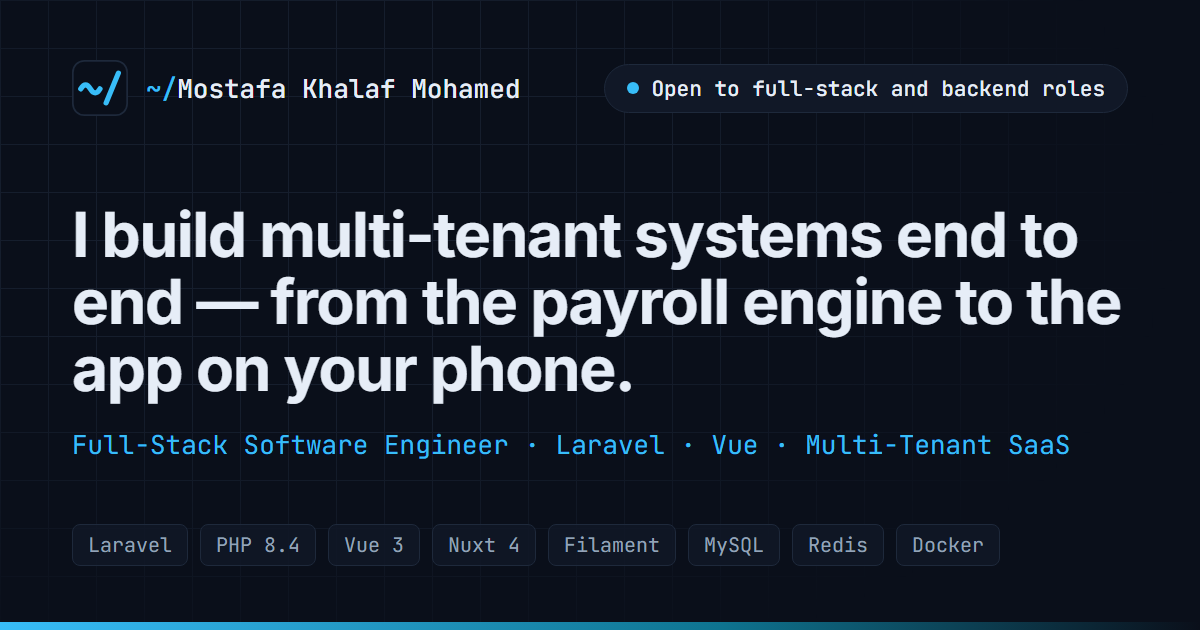
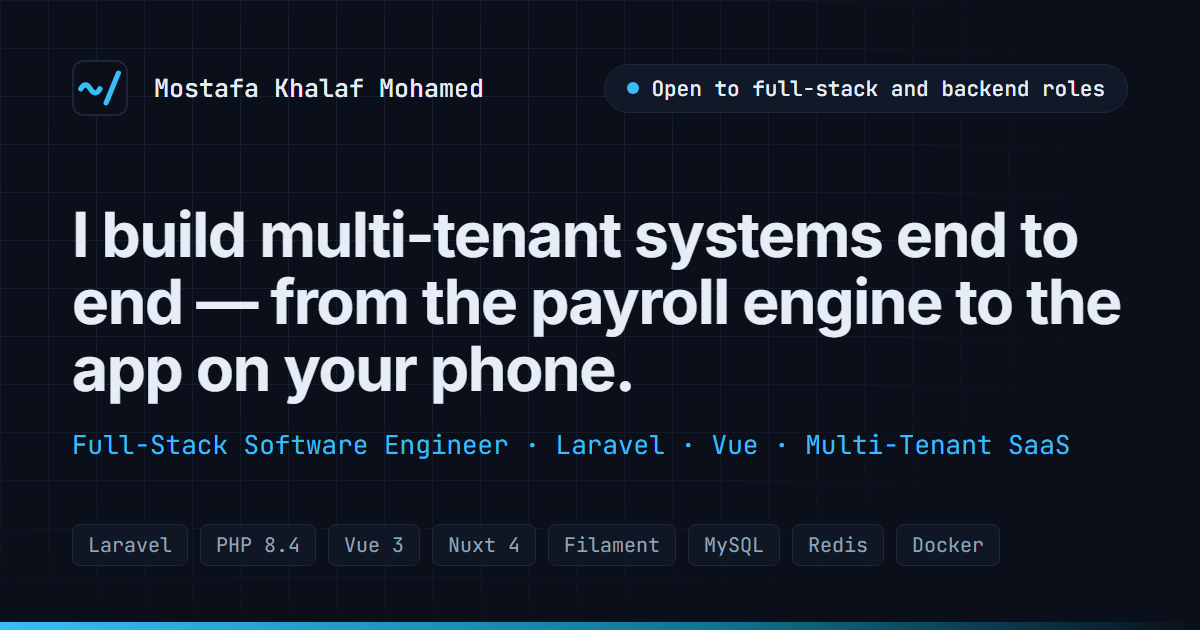
feat(brand): one ~/ mark in the header and preview cards
- Header shows the favicon mark beside the name, like the preview cards,
  instead of a typed ~/ prefix
- Cards drop the duplicated ~/ text, widen the gap after the mark and
  never wrap the top line (the AMG card wrapped beside its wider badge)
- Preview image URLs carry a content hash, so platforms that cache
  previews by URL fetch a re-rendered card instead of the stale one

Changed region(s): [[0.1233, 0.1206, 0.4317, 0.181]]

diff --git a/resources/og/card.html b/resources/og/card.html
@@ -4,7 +4,7 @@
     Text comes from the query string, so one template draws every card:
       title  big line          sub    line under it       tags  comma-separated chips
       badge  pill text         tone   available | live | staging
-      kicker text after the ~/name prompt (optional)
+      kicker text after the name (optional)
     Render with headless Edge or Chrome — see "Link previews" in README.md.
 -->
 <html lang="en">
@@ -42,9 +42,10 @@
         .card { position: relative; height: 100%; padding: 60px 72px 64px; display: flex; flex-direction: column; }
 
         .top { display: flex; align-items: center; justify-content: space-between; gap: 24px; }
-        .who { display: flex; align-items: center; gap: 18px; font-family: 'JetBrains Mono', monospace; font-size: 26px; font-weight: 500; }
-        .who .tilde { color: var(--signal); }
+        /* nowrap: a wide badge ("Live in production") must never push the kicker onto a second line. */
+        .who { display: flex; align-items: center; gap: 26px; font-family: 'JetBrains Mono', monospace; font-size: 25px; font-weight: 500; white-space: nowrap; min-width: 0; }
         .who .kicker { color: var(--muted); font-weight: 400; }
+        .badge { flex-shrink: 0; }
 
         .badge { display: inline-flex; align-items: center; gap: 12px; border-radius: 999px; padding: 10px 22px; font-family: 'JetBrains Mono', monospace; font-size: 21px; font-weight: 500; white-space: nowrap; }
         .badge::before { content: ''; width: 12px; height: 12px; border-radius: 50%; background: currentColor; }
@@ -77,7 +78,8 @@
                         <path d="M19.5 24.5 26.5 7.5"/>
                     </g>
                 </svg>
-                <span><span class="tilde">~/</span>Mostafa Khalaf Mohamed<span class="kicker" id="kicker"></span></span>
+                <!-- The mark already reads "~/", so the name stands alone. -->
+                <span>Mostafa Khalaf Mohamed<span class="kicker" id="kicker"></span></span>
             </div>
             <span class="badge" id="badge"></span>
         </div>

diff --git a/resources/js/components/SiteShell.vue b/resources/js/components/SiteShell.vue
@@ -48,8 +48,17 @@ const links = [
             class="sticky top-0 z-40 border-b border-[color:var(--color-wire)] bg-[color:var(--color-surface)]/85 backdrop-blur"
         >
             <div class="mx-auto flex h-14 max-w-5xl items-center justify-between px-5 sm:px-8">
-                <Link href="/" class="font-mono text-sm font-medium tracking-tight">
-                    <span class="text-[color:var(--color-signal)]">~/</span>{{ name || 'home' }}
+                <Link href="/" class="flex items-center gap-3 font-mono text-sm font-medium tracking-tight">
+                    <!-- Same mark as public/favicon.svg and the link-preview cards. -->
+                    <svg viewBox="0 0 32 32" class="size-7 shrink-0" aria-hidden="true">
+                        <rect width="32" height="32" rx="7" fill="#0a0f1a" />
+                        <rect x="0.5" y="0.5" width="31" height="31" rx="6.5" fill="none" stroke="#1e293b" />
+                        <g fill="none" stroke="#38bdf8" stroke-width="3" stroke-linecap="round" stroke-linejoin="round">
+                            <path d="M5 16.5q2.75-4.5 5.5 0t5.5 0" />
+                            <path d="M19.5 24.5 26.5 7.5" />
+                        </g>
+                    </svg>
+                    {{ name || 'home' }}
                 </Link>
 
                 <nav class="hidden items-center gap-6 md:flex" aria-label="Primary">

diff --git a/tests/Feature/SeoTest.php b/tests/Feature/SeoTest.php
@@ -2,6 +2,7 @@
 
 use App\Enums\ContentStatus;
 use App\Models\CaseStudy;
+use App\Support\PageMeta;
 use Database\Seeders\DatabaseSeeder;
 use Inertia\Testing\AssertableInertia as Assert;
 
@@ -30,7 +31,7 @@ it('prints link-preview tags into the server HTML of the home page', function ()
     expect($this->get('/')->assertOk()->getContent())
         ->toContain("<title inertia>{$title}</title>")
         ->toContain("<meta property=\"og:title\" content=\"{$title}\">")
-        ->toContain('<meta property="og:image" content="'.asset('og/portfolio.png').'">')
+        ->toContain('<meta property="og:image" content="'.asset('og/portfolio.png').'?v=')
         ->toContain('<meta property="og:image:width" content="1200">')
         ->toContain('<meta name="twitter:card" content="summary_large_image">')
         ->toContain('<link rel="canonical" href="'.url('/').'">')
@@ -40,7 +41,7 @@ it('prints link-preview tags into the server HTML of the home page', function ()
 it('hands Vue the same meta the server printed', function () {
     $this->get('/')->assertInertia(fn (Assert $page) => $page
         ->where('meta.title', 'Mostafa Khalaf Mohamed — Full-Stack Software Engineer')
-        ->where('meta.image', asset('og/portfolio.png'))
+        ->where('meta.image', PageMeta::image())
     );
 });
 
@@ -59,7 +60,7 @@ it('gives each project its own title, description and card', function () {
     expect($this->get('/projects/stock-yard-commerce-rfq')->assertOk()->getContent())
         ->toContain('<meta property="og:type" content="article">')
         ->toContain('<title inertia>Stock Yard — Bilingual B2B Commerce and RFQ Platform | Mostafa Khalaf Mohamed</title>')
-        ->toContain('<meta property="og:image" content="'.asset('og/projects/stock-yard-commerce-rfq.png').'">');
+        ->toContain('<meta property="og:image" content="'.asset('og/projects/stock-yard-commerce-rfq.png').'?v=');
 });
 
 it('falls back to the site card for a project without its own image', function () {
@@ -71,7 +72,7 @@ it('falls back to the site card for a project without its own image', function (
     ]);
 
     expect($this->get('/projects/no-card-yet')->getContent())
-        ->toContain('<meta property="og:image" content="'.asset('og/portfolio.png').'">');
+        ->toContain('<meta property="og:image" content="'.asset('og/portfolio.png').'?v=');
 });
 
 it('cannot break out of the JSON-LD script with content from the CMS', function () {
@@ -104,6 +105,14 @@ it('lists the home page and every published project in the sitemap', function ()
         route('projects.show', 'amg-erp-multi-tenant-hrm-payroll'),
         route('projects.show', 'stock-yard-commerce-rfq'),
     ]);
+});
+
+it('versions preview images by content so platforms refetch a re-rendered card', function () {
+    // Same bytes, same URL (caches survive deploys); new bytes, new URL (stale cards replaced).
+    $hash = substr(hash_file('xxh3', public_path('og/portfolio.png')), 0, 10);
+
+    expect(PageMeta::image())->toBe(asset('og/portfolio.png')."?v={$hash}")
+        ->and(PageMeta::image())->toBe(PageMeta::image());
 });
 
 it('keeps the admin out of search results and points crawlers at the sitemap', function () {

diff --git a/app/Support/PageMeta.php b/app/Support/PageMeta.php
@@ -45,13 +45,20 @@ final class PageMeta
         ];
     }
 
-    /** A page-specific card if one has been rendered, otherwise the site-wide card. */
+    /**
+     * A page-specific card if one has been rendered, otherwise the site-wide card.
+     *
+     * LinkedIn, WhatsApp and X cache preview images by URL for days, so the URL carries a
+     * hash of the file: a re-rendered card gets a new URL and is fetched fresh, while an
+     * unchanged one keeps its URL (and its cache) across deployments.
+     */
     public static function image(?string $specific = null): string
     {
-        if ($specific !== null && is_file(public_path($specific))) {
-            return asset($specific);
-        }
+        $path = $specific !== null && is_file(public_path($specific)) ? $specific : 'og/portfolio.png';
+        $file = public_path($path);
 
-        return asset('og/portfolio.png');
+        return is_file($file)
+            ? asset($path).'?v='.substr(hash_file('xxh3', $file), 0, 10)
+            : asset($path);
     }
 }
